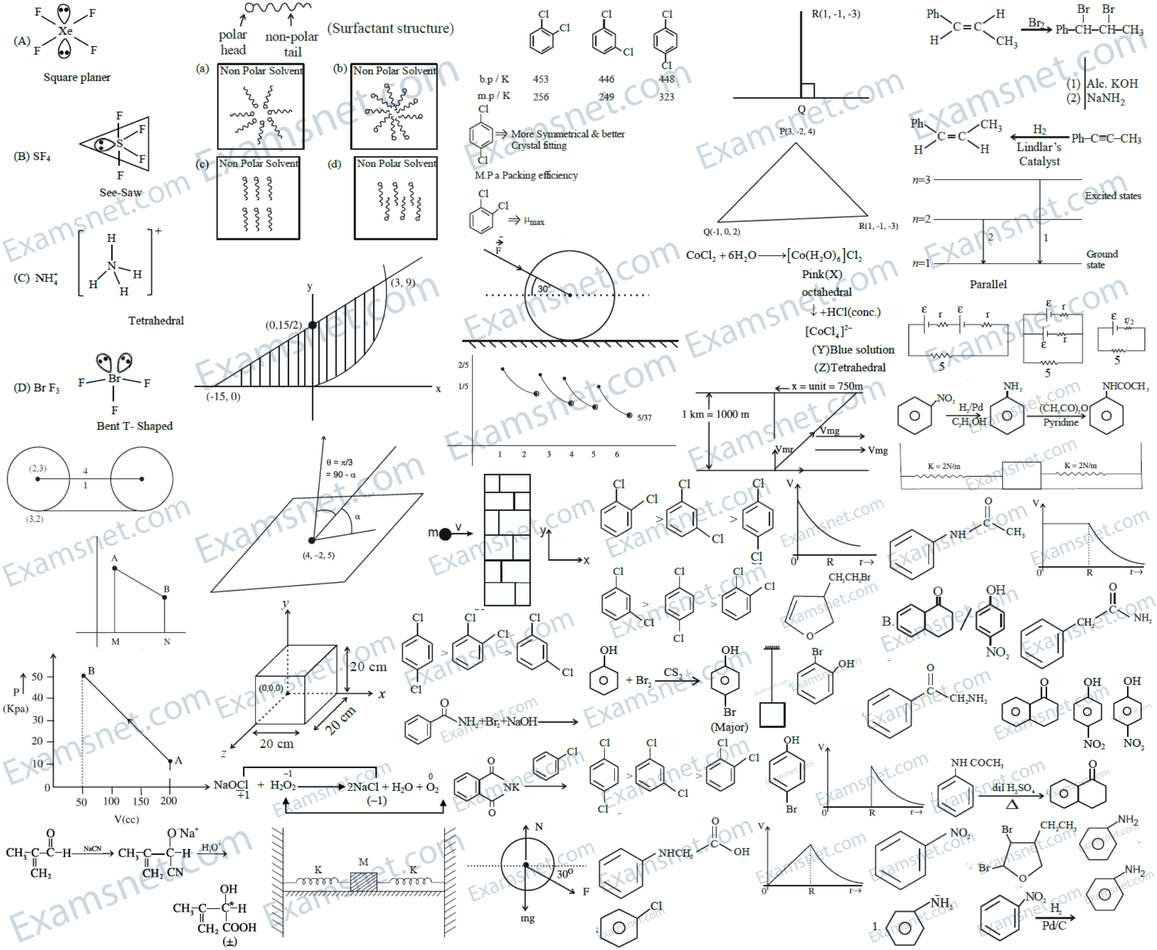
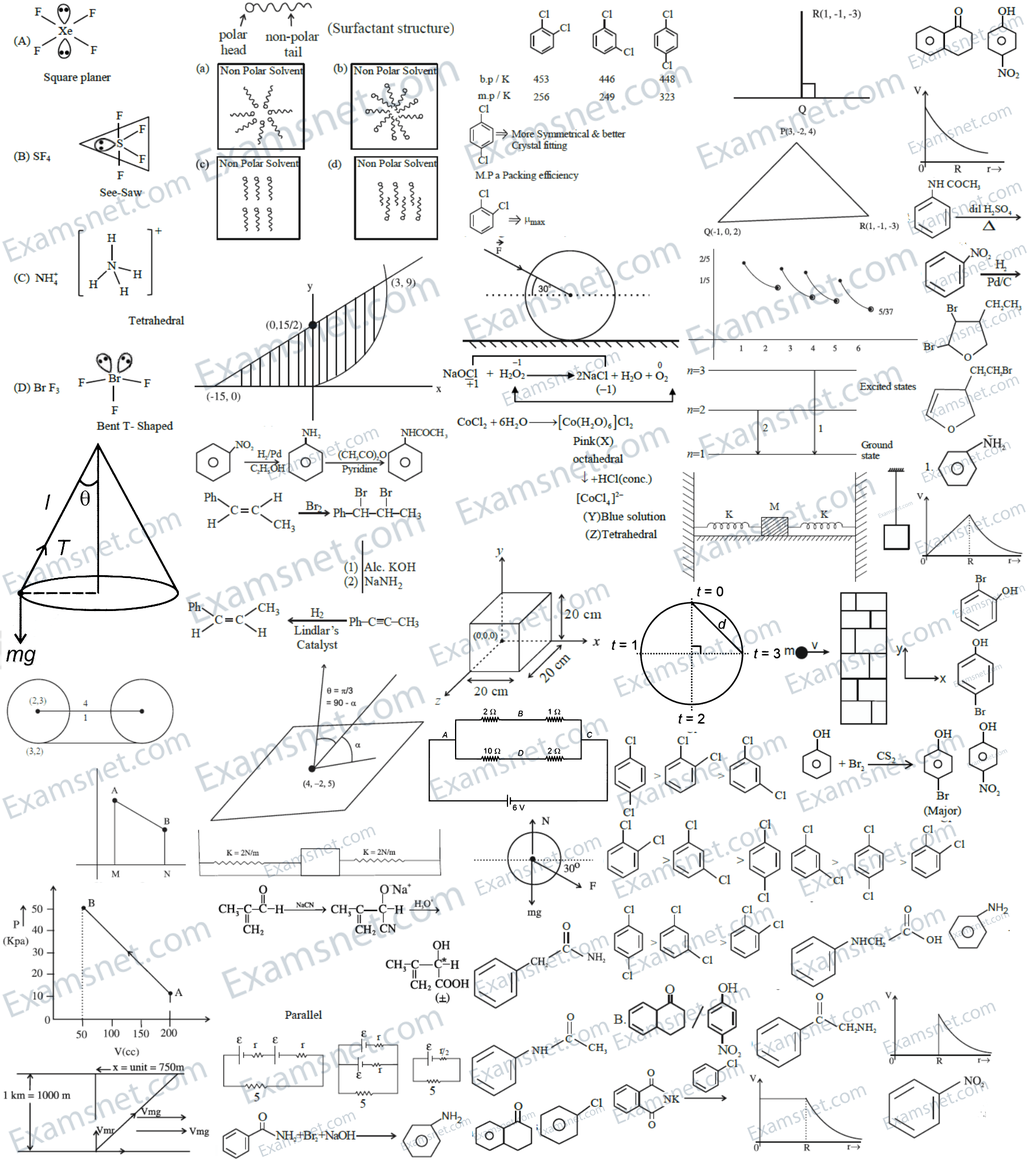
added more images.

Changed region(s): [[0.0, 0.0, 1.0, 1.0], [0.0, 0.0, 0.0931, 0.0935], [0.6825, 0.0, 0.7136, 0.0312]]

diff --git a/img/jee/mains/prev/jee_mn_31_jan_2023_s1.css b/img/jee/mains/prev/jee_mn_31_jan_2023_s1.css
@@ -8,166 +8,175 @@ Responsive: <div class="yourspritesname"></div>
 
 
 .JEEMAINS_31JAN_S1_Q_10 {max-width:372px; max-height:307px; }
-.JEEMAINS_31JAN_S1_Q_10::after {content: '\00a0';display: inline-block; width:372px; height:307px; background-position: 0.060204695966285374% 83.83541513592947%;background-size: 546.505376344086% 543.3224755700326%;background-image: url(jee_mn_31_jan_2023_s1-0.png);padding: 0; }
+.JEEMAINS_31JAN_S1_Q_10::after {content: '\00a0';display: inline-block; width:372px; height:307px; background-position: 0.06978367062107467% 89.53757225433526%;background-size: 485.21505376344084% 663.5179153094463%;background-image: url(jee_mn_31_jan_2023_s1-0.png);padding: 0; }
 div.JEEMAINS_31JAN_S1_Q_10::after {max-width:372px; width:100%;height:0;padding: 0 0 82.52688172043011% 0;}
 .JEEMAINS_31JAN_S1_Q_11_O_1 {max-width:198px; max-height:137px; }
-.JEEMAINS_31JAN_S1_Q_11_O_1::after {content: '\00a0';display: inline-block; width:198px; height:137px; background-position: 72.26158038147139% 94.05617243631613%;background-size: 1026.7676767676767% 1217.5182481751824%;background-image: url(jee_mn_31_jan_2023_s1-0.png);padding: 0; }
+.JEEMAINS_31JAN_S1_Q_11_O_1::after {content: '\00a0';display: inline-block; width:198px; height:137px; background-position: 99.81331673926572% 45.31578947368421%;background-size: 911.6161616161617% 1486.8613138686133%;background-image: url(jee_mn_31_jan_2023_s1-0.png);padding: 0; }
 div.JEEMAINS_31JAN_S1_Q_11_O_1::after {max-width:198px; width:100%;height:0;padding: 0 0 69.1919191919192% 0;}
 .JEEMAINS_31JAN_S1_Q_11_O_2 {max-width:202px; max-height:138px; }
-.JEEMAINS_31JAN_S1_Q_11_O_2::after {content: '\00a0';display: inline-block; width:202px; height:138px; background-position: 78.15401419989077% 85.0326797385621%;background-size: 1006.4356435643564% 1208.695652173913%;background-image: url(jee_mn_31_jan_2023_s1-0.png);padding: 0; }
+.JEEMAINS_31JAN_S1_Q_11_O_2::after {content: '\00a0';display: inline-block; width:202px; height:138px; background-position: 96.56893325015595% 91.4691943127962%;background-size: 893.5643564356436% 1476.0869565217392%;background-image: url(jee_mn_31_jan_2023_s1-0.png);padding: 0; }
 div.JEEMAINS_31JAN_S1_Q_11_O_2::after {max-width:202px; width:100%;height:0;padding: 0 0 68.31683168316832% 0;}
 .JEEMAINS_31JAN_S1_Q_11_O_3 {max-width:213px; max-height:153px; }
-.JEEMAINS_31JAN_S1_Q_11_O_3::after {content: '\00a0';display: inline-block; width:213px; height:153px; background-position: 99.34065934065934% 57.35973597359736%;background-size: 954.4600938967136% 1090.1960784313726%;background-image: url(jee_mn_31_jan_2023_s1-0.png);padding: 0; }
+.JEEMAINS_31JAN_S1_Q_11_O_3::after {content: '\00a0';display: inline-block; width:213px; height:153px; background-position: 82.28643216080403% 99.73460721868365%;background-size: 847.4178403755868% 1331.3725490196077%;background-image: url(jee_mn_31_jan_2023_s1-0.png);padding: 0; }
 div.JEEMAINS_31JAN_S1_Q_11_O_3::after {max-width:213px; width:100%;height:0;padding: 0 0 71.83098591549296% 0;}
 .JEEMAINS_31JAN_S1_Q_11_O_4 {max-width:186px; max-height:161px; }
-.JEEMAINS_31JAN_S1_Q_11_O_4::after {content: '\00a0';display: inline-block; width:186px; height:161px; background-position: 74.12019491066594% 55.67352355673523%;background-size: 1093.010752688172% 1036.024844720497%;background-image: url(jee_mn_31_jan_2023_s1-0.png);padding: 0; }
+.JEEMAINS_31JAN_S1_Q_11_O_4::after {content: '\00a0';display: inline-block; width:186px; height:161px; background-position: 98.33230389129092% 7.9424307036247335%;background-size: 970.4301075268817% 1265.2173913043478%;background-image: url(jee_mn_31_jan_2023_s1-0.png);padding: 0; }
 div.JEEMAINS_31JAN_S1_Q_11_O_4::after {max-width:186px; width:100%;height:0;padding: 0 0 86.55913978494624% 0;}
 .JEEMAINS_31JAN_S1_Q_23 {max-width:361px; max-height:210px; }
-.JEEMAINS_31JAN_S1_Q_23::after {content: '\00a0';display: inline-block; width:361px; height:210px; background-position: 27.392344497607656% 98.90260631001372%;background-size: 563.1578947368421% 794.2857142857143%;background-image: url(jee_mn_31_jan_2023_s1-0.png);padding: 0; }
+.JEEMAINS_31JAN_S1_Q_23::after {content: '\00a0';display: inline-block; width:361px; height:210px; background-position: 81.64819944598338% 44.772851669403394%;background-size: 500% 970%;background-image: url(jee_mn_31_jan_2023_s1-0.png);padding: 0; }
 div.JEEMAINS_31JAN_S1_Q_23::after {max-width:361px; width:100%;height:0;padding: 0 0 58.17174515235457% 0;}
 .JEEMAINS_31JAN_S1_Q_27 {max-width:323px; max-height:288px; }
-.JEEMAINS_31JAN_S1_Q_27::after {content: '\00a0';display: inline-block; width:323px; height:288px; background-position: 21.871345029239766% 75.79710144927536%;background-size: 629.4117647058823% 579.1666666666666%;background-image: url(jee_mn_31_jan_2023_s1-0.png);padding: 0; }
+.JEEMAINS_31JAN_S1_Q_27::after {content: '\00a0';display: inline-block; width:323px; height:288px; background-position: 50.607287449392715% 54.54545454545455%;background-size: 558.8235294117648% 707.2916666666666%;background-image: url(jee_mn_31_jan_2023_s1-0.png);padding: 0; }
 div.JEEMAINS_31JAN_S1_Q_27::after {max-width:323px; width:100%;height:0;padding: 0 0 89.16408668730651% 0;}
 .JEEMAINS_31JAN_S1_Q_29 {max-width:420px; max-height:182px; }
-.JEEMAINS_31JAN_S1_Q_29::after {content: '\00a0';display: inline-block; width:420px; height:182px; background-position: 98.69807811531308% 20.188425302826378%;background-size: 484.04761904761904% 916.4835164835165%;background-image: url(jee_mn_31_jan_2023_s1-0.png);padding: 0; }
+.JEEMAINS_31JAN_S1_Q_29::after {content: '\00a0';display: inline-block; width:420px; height:182px; background-position: 86.28158844765343% 34.23180592991914%;background-size: 429.76190476190476% 1119.2307692307693%;background-image: url(jee_mn_31_jan_2023_s1-0.png);padding: 0; }
 div.JEEMAINS_31JAN_S1_Q_29::after {max-width:420px; width:100%;height:0;padding: 0 0 43.333333333333336% 0;}
 .JEEMAINS_31JAN_S1_Q_36 {max-width:189px; max-height:130px; }
-.JEEMAINS_31JAN_S1_Q_36::after {content: '\00a0';display: inline-block; width:189px; height:130px; background-position: 82.70065075921909% 93.62808842652795%;background-size: 1075.6613756613756% 1283.076923076923%;background-image: url(jee_mn_31_jan_2023_s1-0.png);padding: 0; }
+.JEEMAINS_31JAN_S1_Q_36::after {content: '\00a0';display: inline-block; width:189px; height:130px; background-position: 95.79207920792079% 98.3744100681699%;background-size: 955.026455026455% 1566.923076923077%;background-image: url(jee_mn_31_jan_2023_s1-0.png);padding: 0; }
 div.JEEMAINS_31JAN_S1_Q_36::after {max-width:189px; width:100%;height:0;padding: 0 0 68.78306878306879% 0;}
 .JEEMAINS_31JAN_S1_Q_36_O_1 {max-width:240px; max-height:155px; }
-.JEEMAINS_31JAN_S1_Q_36_O_1::after {content: '\00a0';display: inline-block; width:240px; height:155px; background-position: 99.94422755158952% 67.61401189689359%;background-size: 847.0833333333334% 1076.1290322580646%;background-image: url(jee_mn_31_jan_2023_s1-0.png);padding: 0; }
+.JEEMAINS_31JAN_S1_Q_36_O_1::after {content: '\00a0';display: inline-block; width:240px; height:155px; background-position: 53.09904153354633% 86.02550478214665%;background-size: 752.0833333333334% 1314.1935483870968%;background-image: url(jee_mn_31_jan_2023_s1-0.png);padding: 0; }
 div.JEEMAINS_31JAN_S1_Q_36_O_1::after {max-width:240px; width:100%;height:0;padding: 0 0 64.58333333333333% 0;}
 .JEEMAINS_31JAN_S1_Q_36_O_2 {max-width:227px; max-height:141px; }
-.JEEMAINS_31JAN_S1_Q_36_O_2::after {content: '\00a0';display: inline-block; width:227px; height:141px; background-position: 83.94241417497231% 75.90045841519319%;background-size: 895.5947136563876% 1182.9787234042553%;background-image: url(jee_mn_31_jan_2023_s1-0.png);padding: 0; }
+.JEEMAINS_31JAN_S1_Q_36_O_2::after {content: '\00a0';display: inline-block; width:227px; height:141px; background-position: 83.65019011406844% 91.61392405063292%;background-size: 795.1541850220265% 1444.6808510638298%;background-image: url(jee_mn_31_jan_2023_s1-0.png);padding: 0; }
 div.JEEMAINS_31JAN_S1_Q_36_O_2::after {max-width:227px; width:100%;height:0;padding: 0 0 62.11453744493392% 0;}
 .JEEMAINS_31JAN_S1_Q_36_O_3 {max-width:277px; max-height:153px; }
-.JEEMAINS_31JAN_S1_Q_36_O_3::after {content: '\00a0';display: inline-block; width:277px; height:153px; background-position: 59.68109339407745% 94.25742574257426%;background-size: 733.9350180505415% 1090.1960784313726%;background-image: url(jee_mn_31_jan_2023_s1-0.png);padding: 0; }
+.JEEMAINS_31JAN_S1_Q_36_O_3::after {content: '\00a0';display: inline-block; width:277px; height:153px; background-position: 90.6413612565445% 84.02335456475583%;background-size: 651.6245487364621% 1331.3725490196077%;background-image: url(jee_mn_31_jan_2023_s1-0.png);padding: 0; }
 div.JEEMAINS_31JAN_S1_Q_36_O_3::after {max-width:277px; width:100%;height:0;padding: 0 0 55.234657039711195% 0;}
 .JEEMAINS_31JAN_S1_Q_36_O_4 {max-width:251px; max-height:152px; }
-.JEEMAINS_31JAN_S1_Q_36_O_4::after {content: '\00a0';display: inline-block; width:251px; height:152px; background-position: 87.31762065095398% 57.321899736147756%;background-size: 809.9601593625498% 1097.3684210526317%;background-image: url(jee_mn_31_jan_2023_s1-0.png);padding: 0; }
+.JEEMAINS_31JAN_S1_Q_36_O_4::after {content: '\00a0';display: inline-block; width:251px; height:152px; background-position: 52.83140283140283% 94.16445623342175%;background-size: 719.1235059760957% 1340.1315789473683%;background-image: url(jee_mn_31_jan_2023_s1-0.png);padding: 0; }
 div.JEEMAINS_31JAN_S1_Q_36_O_4::after {max-width:251px; width:100%;height:0;padding: 0 0 60.55776892430279% 0;}
 .JEEMAINS_31JAN_S1_Q_39_O_1 {max-width:312px; max-height:133px; }
-.JEEMAINS_31JAN_S1_Q_39_O_1::after {content: '\00a0';display: inline-block; width:312px; height:133px; background-position: 59.848925043579314% 84.29967426710098%;background-size: 651.6025641025641% 1254.1353383458647%;background-image: url(jee_mn_31_jan_2023_s1-0.png);padding: 0; }
+.JEEMAINS_31JAN_S1_Q_39_O_1::after {content: '\00a0';display: inline-block; width:312px; height:133px; background-position: 71.80174146014735% 83.35084033613445%;background-size: 578.525641025641% 1531.578947368421%;background-image: url(jee_mn_31_jan_2023_s1-0.png);padding: 0; }
 div.JEEMAINS_31JAN_S1_Q_39_O_1::after {max-width:312px; width:100%;height:0;padding: 0 0 42.62820512820513% 0;}
 .JEEMAINS_31JAN_S1_Q_39_O_2 {max-width:320px; max-height:148px; }
-.JEEMAINS_31JAN_S1_Q_39_O_2::after {content: '\00a0';display: inline-block; width:320px; height:148px; background-position: 61.17921774664332% 55.19736842105263%;background-size: 635.3125% 1127.027027027027%;background-image: url(jee_mn_31_jan_2023_s1-0.png);padding: 0; }
+.JEEMAINS_31JAN_S1_Q_39_O_2::after {content: '\00a0';display: inline-block; width:320px; height:148px; background-position: 71.31313131313131% 76.12493382742191%;background-size: 564.0625% 1376.3513513513512%;background-image: url(jee_mn_31_jan_2023_s1-0.png);padding: 0; }
 div.JEEMAINS_31JAN_S1_Q_39_O_2::after {max-width:320px; width:100%;height:0;padding: 0 0 46.25% 0;}
 .JEEMAINS_31JAN_S1_Q_39_O_3 {max-width:320px; max-height:141px; }
-.JEEMAINS_31JAN_S1_Q_39_O_3::after {content: '\00a0';display: inline-block; width:320px; height:141px; background-position: 61.17921774664332% 64.70203012442698%;background-size: 635.3125% 1182.9787234042553%;background-image: url(jee_mn_31_jan_2023_s1-0.png);padding: 0; }
+.JEEMAINS_31JAN_S1_Q_39_O_3::after {content: '\00a0';display: inline-block; width:320px; height:141px; background-position: 92.92929292929293% 76.00210970464136%;background-size: 564.0625% 1444.6808510638298%;background-image: url(jee_mn_31_jan_2023_s1-0.png);padding: 0; }
 div.JEEMAINS_31JAN_S1_Q_39_O_3::after {max-width:320px; width:100%;height:0;padding: 0 0 44.0625% 0;}
 .JEEMAINS_31JAN_S1_Q_39_O_4 {max-width:323px; max-height:152px; }
-.JEEMAINS_31JAN_S1_Q_39_O_4::after {content: '\00a0';display: inline-block; width:323px; height:152px; background-position: 40.8187134502924% 70.51451187335093%;background-size: 629.4117647058823% 1097.3684210526317%;background-image: url(jee_mn_31_jan_2023_s1-0.png);padding: 0; }
+.JEEMAINS_31JAN_S1_Q_39_O_4::after {content: '\00a0';display: inline-block; width:323px; height:152px; background-position: 72.2672064777328% 68.16976127320955%;background-size: 558.8235294117648% 1340.1315789473683%;background-image: url(jee_mn_31_jan_2023_s1-0.png);padding: 0; }
 div.JEEMAINS_31JAN_S1_Q_39_O_4::after {max-width:323px; width:100%;height:0;padding: 0 0 47.05882352941177% 0;}
 .JEEMAINS_31JAN_S1_Q_4 {max-width:387px; max-height:197px; }
-.JEEMAINS_31JAN_S1_Q_4::after {content: '\00a0';display: inline-block; width:387px; height:197px; background-position: 49.27095990279465% 28.21210061182869%;background-size: 525.3229974160207% 846.7005076142132%;background-image: url(jee_mn_31_jan_2023_s1-0.png);padding: 0; }
+.JEEMAINS_31JAN_S1_Q_4::after {content: '\00a0';display: inline-block; width:387px; height:197px; background-position: 57.19322990126939% 22.554347826086957%;background-size: 466.40826873385015% 1034.010152284264%;background-image: url(jee_mn_31_jan_2023_s1-0.png);padding: 0; }
 div.JEEMAINS_31JAN_S1_Q_4::after {max-width:387px; width:100%;height:0;padding: 0 0 50.90439276485788% 0;}
 .JEEMAINS_31JAN_S1_Q_42 {max-width:246px; max-height:136px; }
-.JEEMAINS_31JAN_S1_Q_42::after {content: '\00a0';display: inline-block; width:246px; height:136px; background-position: 86.45775041969782% 66.71018276762402%;background-size: 826.4227642276422% 1226.4705882352941%;background-image: url(jee_mn_31_jan_2023_s1-0.png);padding: 0; }
+.JEEMAINS_31JAN_S1_Q_42::after {content: '\00a0';display: inline-block; width:246px; height:136px; background-position: 68.82617062219371% 90.5312993161494%;background-size: 733.739837398374% 1497.7941176470588%;background-image: url(jee_mn_31_jan_2023_s1-0.png);padding: 0; }
 div.JEEMAINS_31JAN_S1_Q_42::after {max-width:246px; width:100%;height:0;padding: 0 0 55.28455284552845% 0;}
 .JEEMAINS_31JAN_S1_Q_48 {max-width:472px; max-height:425px; }
-.JEEMAINS_31JAN_S1_Q_48::after {content: '\00a0';display: inline-block; width:472px; height:425px; background-position: 21.6527866752082% 0.08045052292839903%;background-size: 430.72033898305085% 392.47058823529414%;background-image: url(jee_mn_31_jan_2023_s1-0.png);padding: 0; }
+.JEEMAINS_31JAN_S1_Q_48::after {content: '\00a0';display: inline-block; width:472px; height:425px; background-position: 25.356339084771193% 0.062034739454094295%;background-size: 382.41525423728814% 479.29411764705884%;background-image: url(jee_mn_31_jan_2023_s1-0.png);padding: 0; }
 div.JEEMAINS_31JAN_S1_Q_48::after {max-width:472px; width:100%;height:0;padding: 0 0 90.04237288135593% 0;}
 .JEEMAINS_31JAN_S1_Q_49_O_1 {max-width:87px; max-height:143px; }
-.JEEMAINS_31JAN_S1_Q_49_O_1::after {content: '\00a0';display: inline-block; width:87px; height:143px; background-position: 69.01336073997945% 84.32786885245902%;background-size: 2336.7816091954023% 1166.4335664335665%;background-image: url(jee_mn_31_jan_2023_s1-0.png);padding: 0; }
+.JEEMAINS_31JAN_S1_Q_49_O_1::after {content: '\00a0';display: inline-block; width:87px; height:143px; background-position: 97.38067520372526% 58.870116156283%;background-size: 2074.712643678161% 1424.4755244755245%;background-image: url(jee_mn_31_jan_2023_s1-0.png);padding: 0; }
 div.JEEMAINS_31JAN_S1_Q_49_O_1::after {max-width:87px; width:100%;height:0;padding: 0 0 164.367816091954% 0;}
 .JEEMAINS_31JAN_S1_Q_49_O_2 {max-width:175px; max-height:125px; }
-.JEEMAINS_31JAN_S1_Q_49_O_2::after {content: '\00a0';display: inline-block; width:175px; height:125px; background-position: 73.68137782561894% 64.87362281270252%;background-size: 1161.7142857142858% 1334.4%;background-image: url(jee_mn_31_jan_2023_s1-0.png);padding: 0; }
+.JEEMAINS_31JAN_S1_Q_49_O_2::after {content: '\00a0';display: inline-block; width:175px; height:125px; background-position: 99.14110429447852% 33.36820083682009%;background-size: 1031.4285714285713% 1629.6%;background-image: url(jee_mn_31_jan_2023_s1-0.png);padding: 0; }
 div.JEEMAINS_31JAN_S1_Q_49_O_2::after {max-width:175px; width:100%;height:0;padding: 0 0 71.42857142857143% 0;}
 .JEEMAINS_31JAN_S1_Q_49_O_3 {max-width:177px; max-height:113px; }
-.JEEMAINS_31JAN_S1_Q_49_O_3::after {content: '\00a0';display: inline-block; width:177px; height:113px; background-position: 92.40301724137932% 92.54019292604502%;background-size: 1148.587570621469% 1476.1061946902655%;background-image: url(jee_mn_31_jan_2023_s1-0.png);padding: 0; }
+.JEEMAINS_31JAN_S1_Q_49_O_3::after {content: '\00a0';display: inline-block; width:177px; height:113px; background-position: 99.32432432432432% 27.234927234927234%;background-size: 1019.7740112994351% 1802.654867256637%;background-image: url(jee_mn_31_jan_2023_s1-0.png);padding: 0; }
 div.JEEMAINS_31JAN_S1_Q_49_O_3::after {max-width:177px; width:100%;height:0;padding: 0 0 63.84180790960452% 0;}
 .JEEMAINS_31JAN_S1_Q_49_O_4 {max-width:128px; max-height:115px; }
-.JEEMAINS_31JAN_S1_Q_49_O_4::after {content: '\00a0';display: inline-block; width:128px; height:115px; background-position: 72.80839895013123% 72.56922086284611%;background-size: 1588.28125% 1450.4347826086957%;background-image: url(jee_mn_31_jan_2023_s1-0.png);padding: 0; }
+.JEEMAINS_31JAN_S1_Q_49_O_4::after {content: '\00a0';display: inline-block; width:128px; height:115px; background-position: 99.76147883124628% 51.97710718002081%;background-size: 1410.15625% 1771.304347826087%;background-image: url(jee_mn_31_jan_2023_s1-0.png);padding: 0; }
 div.JEEMAINS_31JAN_S1_Q_49_O_4::after {max-width:128px; width:100%;height:0;padding: 0 0 89.84375% 0;}
 .JEEMAINS_31JAN_S1_Q_57_O_1 {max-width:323px; max-height:87px; }
-.JEEMAINS_31JAN_S1_Q_57_O_1::after {content: '\00a0';display: inline-block; width:323px; height:87px; background-position: 40.8187134502924% 77.29285262492094%;background-size: 629.4117647058823% 1917.2413793103449%;background-image: url(jee_mn_31_jan_2023_s1-0.png);padding: 0; }
+.JEEMAINS_31JAN_S1_Q_57_O_1::after {content: '\00a0';display: inline-block; width:323px; height:87px; background-position: 25.506072874493928% 99.94871794871794%;background-size: 558.8235294117648% 2341.3793103448274%;background-image: url(jee_mn_31_jan_2023_s1-0.png);padding: 0; }
 div.JEEMAINS_31JAN_S1_Q_57_O_1::after {max-width:323px; width:100%;height:0;padding: 0 0 26.934984520123837% 0;}
 .JEEMAINS_31JAN_S1_Q_57_O_2 {max-width:236px; max-height:125px; }
-.JEEMAINS_31JAN_S1_Q_57_O_2::after {content: '\00a0';display: inline-block; width:236px; height:125px; background-position: 44.1291040623261% 84.899546338302%;background-size: 861.4406779661017% 1334.4%;background-image: url(jee_mn_31_jan_2023_s1-0.png);padding: 0; }
+.JEEMAINS_31JAN_S1_Q_57_O_2::after {content: '\00a0';display: inline-block; width:236px; height:125px; background-position: 68.38750796685787% 97.17573221757323%;background-size: 764.8305084745763% 1629.6%;background-image: url(jee_mn_31_jan_2023_s1-0.png);padding: 0; }
 div.JEEMAINS_31JAN_S1_Q_57_O_2::after {max-width:236px; width:100%;height:0;padding: 0 0 52.96610169491525% 0;}
 .JEEMAINS_31JAN_S1_Q_57_O_3 {max-width:187px; max-height:100px; }
-.JEEMAINS_31JAN_S1_Q_57_O_3::after {content: '\00a0';display: inline-block; width:187px; height:100px; background-position: 92.9035752979415% 99.04336734693878%;background-size: 1087.1657754010696% 1668%;background-image: url(jee_mn_31_jan_2023_s1-0.png);padding: 0; }
+.JEEMAINS_31JAN_S1_Q_57_O_3::after {content: '\00a0';display: inline-block; width:187px; height:100px; background-position: 99.93819530284301% 21.837893649974188%;background-size: 965.24064171123% 2037%;background-image: url(jee_mn_31_jan_2023_s1-0.png);padding: 0; }
 div.JEEMAINS_31JAN_S1_Q_57_O_3::after {max-width:187px; width:100%;height:0;padding: 0 0 53.475935828877006% 0;}
 .JEEMAINS_31JAN_S1_Q_57_O_4 {max-width:204px; max-height:111px; }
-.JEEMAINS_31JAN_S1_Q_57_O_4::after {content: '\00a0';display: inline-block; width:204px; height:111px; background-position: 89.33843630399126% 85.22800256904303%;background-size: 996.5686274509804% 1502.7027027027027%;background-image: url(jee_mn_31_jan_2023_s1-0.png);padding: 0; }
+.JEEMAINS_31JAN_S1_Q_57_O_4::after {content: '\00a0';display: inline-block; width:204px; height:111px; background-position: 99.43785134291068% 16.147455867082034%;background-size: 884.8039215686274% 1835.1351351351352%;background-image: url(jee_mn_31_jan_2023_s1-0.png);padding: 0; }
 div.JEEMAINS_31JAN_S1_Q_57_O_4::after {max-width:204px; width:100%;height:0;padding: 0 0 54.411764705882355% 0;}
 .JEEMAINS_31JAN_S1_S_20 {max-width:297px; max-height:247px; }
-.JEEMAINS_31JAN_S1_S_20::after {content: '\00a0';display: inline-block; width:297px; height:247px; background-position: 43.20276497695853% 57.776213933849405%;background-size: 684.5117845117845% 675.3036437246964%;background-image: url(jee_mn_31_jan_2023_s1-0.png);padding: 0; }
+.JEEMAINS_31JAN_S1_S_20::after {content: '\00a0';display: inline-block; width:297px; height:247px; background-position: 91.18037135278514% 57.486033519553075%;background-size: 607.7441077441077% 824.6963562753036%;background-image: url(jee_mn_31_jan_2023_s1-0.png);padding: 0; }
 div.JEEMAINS_31JAN_S1_S_20::after {max-width:297px; width:100%;height:0;padding: 0 0 83.16498316498317% 0;}
 .JEEMAINS_31JAN_S1_S_21 {max-width:62px; max-height:155px; }
-.JEEMAINS_31JAN_S1_S_21::after {content: '\00a0';display: inline-block; width:62px; height:155px; background-position: 67.1740233384069% 74.68605419695969%;background-size: 3279.032258064516% 1076.1290322580646%;background-image: url(jee_mn_31_jan_2023_s1-0.png);padding: 0; }
+.JEEMAINS_31JAN_S1_S_21::after {content: '\00a0';display: inline-block; width:62px; height:155px; background-position: 88.41078600114744% 43.4643995749203%;background-size: 2911.2903225806454% 1314.1935483870968%;background-image: url(jee_mn_31_jan_2023_s1-0.png);padding: 0; }
 div.JEEMAINS_31JAN_S1_S_21::after {max-width:62px; width:100%;height:0;padding: 0 0 250% 0;}
 .JEEMAINS_31JAN_S1_S_22 {max-width:376px; max-height:177px; }
-.JEEMAINS_31JAN_S1_S_22::after {content: '\00a0';display: inline-block; width:376px; height:177px; background-position: 72.05793602896802% 44.3326626425218%;background-size: 540.6914893617021% 942.3728813559322%;background-image: url(jee_mn_31_jan_2023_s1-0.png);padding: 0; }
+.JEEMAINS_31JAN_S1_S_22::after {content: '\00a0';display: inline-block; width:376px; height:177px; background-position: 0.06997900629811056% 99.83870967741936%;background-size: 480.0531914893617% 1150.8474576271187%;background-image: url(jee_mn_31_jan_2023_s1-0.png);padding: 0; }
 div.JEEMAINS_31JAN_S1_S_22::after {max-width:376px; width:100%;height:0;padding: 0 0 47.07446808510638% 0;}
 .JEEMAINS_31JAN_S1_S_23 {max-width:447px; max-height:100px; }
-.JEEMAINS_31JAN_S1_S_23::after {content: '\00a0';display: inline-block; width:447px; height:100px; background-position: 99.05422446406052% 48.97959183673469%;background-size: 454.80984340044745% 1668%;background-image: url(jee_mn_31_jan_2023_s1-0.png);padding: 0; }
+.JEEMAINS_31JAN_S1_S_23::after {content: '\00a0';display: inline-block; width:447px; height:100px; background-position: 24.889543446244478% 74.7031491997935%;background-size: 403.80313199105143% 2037%;background-image: url(jee_mn_31_jan_2023_s1-0.png);padding: 0; }
 div.JEEMAINS_31JAN_S1_S_23::after {max-width:447px; width:100%;height:0;padding: 0 0 22.371364653243848% 0;}
 .JEEMAINS_31JAN_S1_S_30 {max-width:442px; max-height:182px; }
-.JEEMAINS_31JAN_S1_S_30::after {content: '\00a0';display: inline-block; width:442px; height:182px; background-position: 99.4343180389692% 32.50336473755047%;background-size: 459.9547511312217% 916.4835164835165%;background-image: url(jee_mn_31_jan_2023_s1-0.png);padding: 0; }
+.JEEMAINS_31JAN_S1_S_30::after {content: '\00a0';display: inline-block; width:442px; height:182px; background-position: 27.73294203961849% 95.2021563342318%;background-size: 408.3710407239819% 1119.2307692307693%;background-image: url(jee_mn_31_jan_2023_s1-0.png);padding: 0; }
 div.JEEMAINS_31JAN_S1_S_30::after {max-width:442px; width:100%;height:0;padding: 0 0 41.1764705882353% 0;}
 .JEEMAINS_31JAN_S1_S_33 {max-width:456px; max-height:217px; }
-.JEEMAINS_31JAN_S1_S_33::after {content: '\00a0';display: inline-block; width:456px; height:217px; background-position: 0.06341154090044387% 99.86216402481048%;background-size: 445.8333333333333% 768.6635944700461%;background-image: url(jee_mn_31_jan_2023_s1-0.png);padding: 0; }
+.JEEMAINS_31JAN_S1_S_33::after {content: '\00a0';display: inline-block; width:456px; height:217px; background-position: 27.724240177909564% 85.05494505494505%;background-size: 395.8333333333333% 938.7096774193549%;background-image: url(jee_mn_31_jan_2023_s1-0.png);padding: 0; }
 div.JEEMAINS_31JAN_S1_S_33::after {max-width:456px; width:100%;height:0;padding: 0 0 47.58771929824562% 0;}
 .JEEMAINS_31JAN_S1_S_36 {max-width:457px; max-height:101px; }
-.JEEMAINS_31JAN_S1_S_36::after {content: '\00a0';display: inline-block; width:457px; height:101px; background-position: 99.68274111675127% 42.501595405232926%;background-size: 444.8577680525164% 1651.4851485148515%;background-image: url(jee_mn_31_jan_2023_s1-0.png);padding: 0; }
+.JEEMAINS_31JAN_S1_S_36::after {content: '\00a0';display: inline-block; width:457px; height:101px; background-position: 25.07418397626113% 38.63636363636363%;background-size: 394.9671772428884% 2016.8316831683169%;background-image: url(jee_mn_31_jan_2023_s1-0.png);padding: 0; }
 div.JEEMAINS_31JAN_S1_S_36::after {max-width:457px; width:100%;height:0;padding: 0 0 22.100656455142232% 0;}
 .JEEMAINS_31JAN_S1_S_37 {max-width:382px; max-height:233px; }
-.JEEMAINS_31JAN_S1_S_37::after {content: '\00a0';display: inline-block; width:382px; height:233px; background-position: 72.62265293761357% 29.75609756097561%;background-size: 532.1989528795812% 715.8798283261802%;background-image: url(jee_mn_31_jan_2023_s1-0.png);padding: 0; }
+.JEEMAINS_31JAN_S1_S_37::after {content: '\00a0';display: inline-block; width:382px; height:233px; background-position: 55.938158819395646% 39.91130820399113%;background-size: 472.5130890052356% 874.2489270386266%;background-image: url(jee_mn_31_jan_2023_s1-0.png);padding: 0; }
 div.JEEMAINS_31JAN_S1_S_37::after {max-width:382px; width:100%;height:0;padding: 0 0 60.99476439790576% 0;}
 .JEEMAINS_31JAN_S1_S_39 {max-width:407px; max-height:413px; }
-.JEEMAINS_31JAN_S1_S_39::after {content: '\00a0';display: inline-block; width:407px; height:413px; background-position: 49.8769987699877% 0.0796812749003984%;background-size: 499.5085995085995% 403.8740920096852%;background-image: url(jee_mn_31_jan_2023_s1-0.png);padding: 0; }
+.JEEMAINS_31JAN_S1_S_39::after {content: '\00a0';display: inline-block; width:407px; height:413px; background-position: 58.01144492131617% 0.06157635467980296%;background-size: 443.4889434889435% 493.22033898305085%;background-image: url(jee_mn_31_jan_2023_s1-0.png);padding: 0; }
 div.JEEMAINS_31JAN_S1_S_39::after {max-width:407px; width:100%;height:0;padding: 0 0 101.47420147420148% 0;}
 .JEEMAINS_31JAN_S1_S_4 {max-width:227px; max-height:192px; }
-.JEEMAINS_31JAN_S1_S_4::after {content: '\00a0';display: inline-block; width:227px; height:192px; background-position: 45.40420819490587% 97.289972899729%;background-size: 895.5947136563876% 868.75%;background-image: url(jee_mn_31_jan_2023_s1-0.png);padding: 0; }
+.JEEMAINS_31JAN_S1_S_4::after {content: '\00a0';display: inline-block; width:227px; height:192px; background-position: 52.661596958174904% 77.289972899729%;background-size: 795.1541850220265% 1060.9375%;background-image: url(jee_mn_31_jan_2023_s1-0.png);padding: 0; }
 div.JEEMAINS_31JAN_S1_S_4::after {max-width:227px; width:100%;height:0;padding: 0 0 84.58149779735683% 0;}
 .JEEMAINS_31JAN_S1_S_42 {max-width:207px; max-height:147px; }
-.JEEMAINS_31JAN_S1_S_42::after {content: '\00a0';display: inline-block; width:207px; height:147px; background-position: 95.50930996714129% 77.51479289940828%;background-size: 982.1256038647343% 1134.6938775510205%;background-image: url(jee_mn_31_jan_2023_s1-0.png);padding: 0; }
+.JEEMAINS_31JAN_S1_S_42::after {content: '\00a0';display: inline-block; width:207px; height:147px; background-position: 99.62453066332917% 0.05291005291005291%;background-size: 871.9806763285025% 1385.7142857142858%;background-image: url(jee_mn_31_jan_2023_s1-0.png);padding: 0; }
 div.JEEMAINS_31JAN_S1_S_42::after {max-width:207px; width:100%;height:0;padding: 0 0 71.01449275362319% 0;}
 .JEEMAINS_31JAN_S1_S_42_1 {max-width:72px; max-height:145px; }
-.JEEMAINS_31JAN_S1_S_42_1::after {content: '\00a0';display: inline-block; width:72px; height:145px; background-position: 99.54105048444671% 77.41300065659881%;background-size: 2823.6111111111113% 1150.344827586207%;background-image: url(jee_mn_31_jan_2023_s1-0.png);padding: 0; }
+.JEEMAINS_31JAN_S1_S_42_1::after {content: '\00a0';display: inline-block; width:72px; height:145px; background-position: 97.92267743796884% 66.54334038054968%;background-size: 2506.9444444444443% 1404.8275862068965%;background-image: url(jee_mn_31_jan_2023_s1-0.png);padding: 0; }
 div.JEEMAINS_31JAN_S1_S_42_1::after {max-width:72px; width:100%;height:0;padding: 0 0 201.38888888888889% 0;}
 .JEEMAINS_31JAN_S1_S_42_2 {max-width:112px; max-height:100px; }
-.JEEMAINS_31JAN_S1_S_42_2::after {content: '\00a0';display: inline-block; width:112px; height:100px; background-position: 95.73138990109318% 84.63010204081633%;background-size: 1815.1785714285713% 1668%;background-image: url(jee_mn_31_jan_2023_s1-0.png);padding: 0; }
+.JEEMAINS_31JAN_S1_S_42_2::after {content: '\00a0';display: inline-block; width:112px; height:100px; background-position: 48.966331955109275% 99.53536396489416%;background-size: 1611.607142857143% 2037%;background-image: url(jee_mn_31_jan_2023_s1-0.png);padding: 0; }
 div.JEEMAINS_31JAN_S1_S_42_2::after {max-width:112px; width:100%;height:0;padding: 0 0 89.28571428571429% 0;}
 .JEEMAINS_31JAN_S1_S_44 {max-width:418px; max-height:106px; }
-.JEEMAINS_31JAN_S1_S_44::after {content: '\00a0';display: inline-block; width:418px; height:106px; background-position: 23.157894736842106% 85.4673495518566%;background-size: 486.3636363636364% 1573.5849056603774%;background-image: url(jee_mn_31_jan_2023_s1-0.png);padding: 0; }
+.JEEMAINS_31JAN_S1_S_44::after {content: '\00a0';display: inline-block; width:418px; height:106px; background-position: 55.94808940158616% 31.745209735888142%;background-size: 431.8181818181818% 1921.698113207547%;background-image: url(jee_mn_31_jan_2023_s1-0.png);padding: 0; }
 div.JEEMAINS_31JAN_S1_S_44::after {max-width:418px; width:100%;height:0;padding: 0 0 25.358851674641148% 0;}
 .JEEMAINS_31JAN_S1_S_46 {max-width:336px; max-height:767px; }
-.JEEMAINS_31JAN_S1_S_46::after {content: '\00a0';display: inline-block; width:336px; height:767px; background-position: 0.05892751915144372% 0.11098779134295228%;background-size: 605.0595238095239% 217.47066492829205%;background-image: url(jee_mn_31_jan_2023_s1-0.png);padding: 0; }
+.JEEMAINS_31JAN_S1_S_46::after {content: '\00a0';display: inline-block; width:336px; height:767px; background-position: 0.06807351940095303% 0.07874015748031496%;background-size: 537.202380952381% 265.58018252933505%;background-image: url(jee_mn_31_jan_2023_s1-0.png);padding: 0; }
 div.JEEMAINS_31JAN_S1_S_46::after {max-width:336px; width:100%;height:0;padding: 0 0 228.27380952380952% 0;}
 .JEEMAINS_31JAN_S1_S_47 {max-width:427px; max-height:298px; }
-.JEEMAINS_31JAN_S1_S_47::after {content: '\00a0';display: inline-block; width:427px; height:298px; background-position: 99.1282689912827% 0.072992700729927%;background-size: 476.11241217798596% 559.7315436241611%;background-image: url(jee_mn_31_jan_2023_s1-0.png);padding: 0; }
+.JEEMAINS_31JAN_S1_S_47::after {content: '\00a0';display: inline-block; width:427px; height:298px; background-position: 23.367198838896954% 48.8786658999425%;background-size: 422.7166276346604% 683.5570469798657%;background-image: url(jee_mn_31_jan_2023_s1-0.png);padding: 0; }
 div.JEEMAINS_31JAN_S1_S_47::after {max-width:427px; width:100%;height:0;padding: 0 0 69.78922716627635% 0;}
 .JEEMAINS_31JAN_S1_S_49 {max-width:301px; max-height:163px; }
-.JEEMAINS_31JAN_S1_S_49::after {content: '\00a0';display: inline-block; width:301px; height:163px; background-position: 59.006928406466514% 75.08305647840531%;background-size: 675.4152823920266% 1023.3128834355829%;background-image: url(jee_mn_31_jan_2023_s1-0.png);padding: 0; }
+.JEEMAINS_31JAN_S1_S_49::after {content: '\00a0';display: inline-block; width:301px; height:163px; background-position: 92.75265957446808% 68.14300960512273%;background-size: 599.6677740863787% 1249.6932515337423%;background-image: url(jee_mn_31_jan_2023_s1-0.png);padding: 0; }
 div.JEEMAINS_31JAN_S1_S_49::after {max-width:301px; width:100%;height:0;padding: 0 0 54.15282392026578% 0;}
 .JEEMAINS_31JAN_S1_S_57 {max-width:160px; max-height:96px; }
-.JEEMAINS_31JAN_S1_S_57::after {content: '\00a0';display: inline-block; width:160px; height:96px; background-position: 81.4201815269621% 99.93638676844783%;background-size: 1270.625% 1737.5%;background-image: url(jee_mn_31_jan_2023_s1-0.png);padding: 0; }
+.JEEMAINS_31JAN_S1_S_57::after {content: '\00a0';display: inline-block; width:160px; height:96px; background-position: 98.2370820668693% 39.36115404430706%;background-size: 1128.125% 2121.875%;background-image: url(jee_mn_31_jan_2023_s1-0.png);padding: 0; }
 div.JEEMAINS_31JAN_S1_S_57::after {max-width:160px; width:100%;height:0;padding: 0 0 60% 0;}
 .JEEMAINS_31JAN_S1_S_57_1 {max-width:121px; max-height:82px; }
-.JEEMAINS_31JAN_S1_S_57_1::after {content: '\00a0';display: inline-block; width:121px; height:82px; background-position: 54.81171548117155% 99.74779319041615%;background-size: 1680.1652892561983% 2034.1463414634147%;background-image: url(jee_mn_31_jan_2023_s1-0.png);padding: 0; }
+.JEEMAINS_31JAN_S1_S_57_1::after {content: '\00a0';display: inline-block; width:121px; height:82px; background-position: 55.93824228028504% 98.61892583120205%;background-size: 1491.7355371900826% 2484.1463414634145%;background-image: url(jee_mn_31_jan_2023_s1-0.png);padding: 0; }
 div.JEEMAINS_31JAN_S1_S_57_1::after {max-width:121px; width:100%;height:0;padding: 0 0 67.76859504132231% 0;}
 .JEEMAINS_31JAN_S1_S_57_2 {max-width:126px; max-height:86px; }
-.JEEMAINS_31JAN_S1_S_57_2::after {content: '\00a0';display: inline-block; width:126px; height:86px; background-position: 99.79024646040902% 95.82806573957016%;background-size: 1613.4920634920634% 1939.5348837209303%;background-image: url(jee_mn_31_jan_2023_s1-0.png);padding: 0; }
+.JEEMAINS_31JAN_S1_S_57_2::after {content: '\00a0';display: inline-block; width:126px; height:86px; background-position: 41.810601548540795% 99.89748846745259%;background-size: 1432.5396825396826% 2368.6046511627906%;background-image: url(jee_mn_31_jan_2023_s1-0.png);padding: 0; }
 div.JEEMAINS_31JAN_S1_S_57_2::after {max-width:126px; width:100%;height:0;padding: 0 0 68.25396825396825% 0;}
 .JEEMAINS_31JAN_S1_S_57_3 {max-width:110px; max-height:87px; }
-.JEEMAINS_31JAN_S1_S_57_3::after {content: '\00a0';display: inline-block; width:110px; height:87px; background-position: 98.4399375975039% 90.3225806451613%;background-size: 1848.1818181818182% 1917.2413793103449%;background-image: url(jee_mn_31_jan_2023_s1-0.png);padding: 0; }
+.JEEMAINS_31JAN_S1_S_57_3::after {content: '\00a0';display: inline-block; width:110px; height:87px; background-position: 98.11209439528024% 81.17948717948718%;background-size: 1640.909090909091% 2341.3793103448274%;background-image: url(jee_mn_31_jan_2023_s1-0.png);padding: 0; }
 div.JEEMAINS_31JAN_S1_S_57_3::after {max-width:110px; width:100%;height:0;padding: 0 0 79.0909090909091% 0;}
 .JEEMAINS_31JAN_S1_S_73 {max-width:417px; max-height:207px; }
-.JEEMAINS_31JAN_S1_S_73::after {content: '\00a0';display: inline-block; width:417px; height:207px; background-position: 48.01980198019802% 41.95756331279945%;background-size: 487.52997601918463% 805.7971014492754%;background-image: url(jee_mn_31_jan_2023_s1-0.png);padding: 0; }
+.JEEMAINS_31JAN_S1_S_73::after {content: '\00a0';display: inline-block; width:417px; height:207px; background-position: 86.38328530259366% 23.333333333333332%;background-size: 432.8537170263789% 984.0579710144928%;background-image: url(jee_mn_31_jan_2023_s1-0.png);padding: 0; }
 div.JEEMAINS_31JAN_S1_S_73::after {max-width:417px; width:100%;height:0;padding: 0 0 49.64028776978417% 0;}
 .JEEMAINS_31JAN_S1_S_77 {max-width:336px; max-height:371px; }
-.JEEMAINS_31JAN_S1_S_77::after {content: '\00a0';display: inline-block; width:336px; height:371px; background-position: 0.05892751915144372% 59.29067077872012%;background-size: 605.0595238095239% 449.5956873315364%;background-image: url(jee_mn_31_jan_2023_s1-0.png);padding: 0; }
+.JEEMAINS_31JAN_S1_S_77::after {content: '\00a0';display: inline-block; width:336px; height:371px; background-position: 0.06807351940095303% 70.64825930372149%;background-size: 537.202380952381% 549.0566037735849%;background-image: url(jee_mn_31_jan_2023_s1-0.png);padding: 0; }
 div.JEEMAINS_31JAN_S1_S_77::after {max-width:336px; width:100%;height:0;padding: 0 0 110.41666666666667% 0;}
 .JEEMAINS_31JAN_S1_S_83 {max-width:411px; max-height:297px; }
-.JEEMAINS_31JAN_S1_S_83::after {content: '\00a0';display: inline-block; width:411px; height:297px; background-position: 20.838471023427868% 54.55871626549963%;background-size: 494.647201946472% 561.6161616161617%;background-image: url(jee_mn_31_jan_2023_s1-0.png);padding: 0; }
+.JEEMAINS_31JAN_S1_S_83::after {content: '\00a0';display: inline-block; width:411px; height:297px; background-position: 24.2467718794835% 66.03448275862068%;background-size: 439.1727493917275% 685.8585858585859%;background-image: url(jee_mn_31_jan_2023_s1-0.png);padding: 0; }
 div.JEEMAINS_31JAN_S1_S_83::after {max-width:411px; width:100%;height:0;padding: 0 0 72.26277372262774% 0;}
 .JEEMAINS_31JAN_S1_S_86 {max-width:372px; max-height:425px; }
-.JEEMAINS_31JAN_S1_S_86::after {content: '\00a0';display: inline-block; width:372px; height:425px; background-position: 73.38952438290187% 0.08045052292839903%;background-size: 546.505376344086% 392.47058823529414%;background-image: url(jee_mn_31_jan_2023_s1-0.png);padding: 0; }
+.JEEMAINS_31JAN_S1_S_86::after {content: '\00a0';display: inline-block; width:372px; height:425px; background-position: 85.06629448709002% 0.062034739454094295%;background-size: 485.21505376344084% 479.29411764705884%;background-image: url(jee_mn_31_jan_2023_s1-0.png);padding: 0; }
 div.JEEMAINS_31JAN_S1_S_86::after {max-width:372px; width:100%;height:0;padding: 0 0 114.24731182795699% 0;}
 .JEEMAINS_31JAN_S1_S_89 {max-width:437px; max-height:320px; }
-.JEEMAINS_31JAN_S1_S_89::after {content: '\00a0';display: inline-block; width:437px; height:320px; background-position: 21.17794486215539% 31.676557863501483%;background-size: 465.2173913043478% 521.25%;background-image: url(jee_mn_31_jan_2023_s1-0.png);padding: 0; }
+.JEEMAINS_31JAN_S1_S_89::after {content: '\00a0';display: inline-block; width:437px; height:320px; background-position: 24.707602339181285% 24.868957483983692%;background-size: 413.04347826086956% 636.5625%;background-image: url(jee_mn_31_jan_2023_s1-0.png);padding: 0; }
 div.JEEMAINS_31JAN_S1_S_89::after {max-width:437px; width:100%;height:0;padding: 0 0 73.22654462242564% 0;}
+.jee_mains_31_jan_2023_s2_27_sol {max-width:320px; max-height:182px; }
+.jee_mains_31_jan_2023_s2_27_sol::after {content: '\00a0';display: inline-block; width:320px; height:182px; background-position: 50.505050505050505% 67.00808625336927%;background-size: 564.0625% 1119.2307692307693%;background-image: url(jee_mn_31_jan_2023_s1-0.png);padding: 0; }
+div.jee_mains_31_jan_2023_s2_27_sol::after {max-width:320px; width:100%;height:0;padding: 0 0 56.875% 0;}
+.jee_mains_31_jan_2023_s2_2_sol {max-width:300px; max-height:255px; }
+.jee_mains_31_jan_2023_s2_2_sol::after {content: '\00a0';display: inline-block; width:300px; height:255px; background-position: 71.36212624584718% 57.744107744107744%;background-size: 601.6666666666666% 798.8235294117648%;background-image: url(jee_mn_31_jan_2023_s1-0.png);padding: 0; }
+div.jee_mains_31_jan_2023_s2_2_sol::after {max-width:300px; width:100%;height:0;padding: 0 0 85% 0;}
+.jee_mains_31_jan_2023_s2_4_sol {max-width:320px; max-height:407px; }
+.jee_mains_31_jan_2023_s2_4_sol::after {content: '\00a0';display: inline-block; width:320px; height:407px; background-position: 0.06734006734006734% 47.17791411042945%;background-size: 564.0625% 500.4914004914005%;background-image: url(jee_mn_31_jan_2023_s1-0.png);padding: 0; }
+div.jee_mains_31_jan_2023_s2_4_sol::after {max-width:320px; width:100%;height:0;padding: 0 0 127.1875% 0;}
 
-/* $TexturePacker:SmartUpdate:bd5a6c83c5aa528e895bf3f04349c22c:863d7b65e27eeee4b604acc504df4c0e:c5a79217cd720c7135c2079800f01b5d$ */
+/* $TexturePacker:SmartUpdate:9c4eec7d2db5e72758fb0dd5a899b9c8:df30c178de1d9e3c6a5a955525b5d2b1:c5a79217cd720c7135c2079800f01b5d$ */
